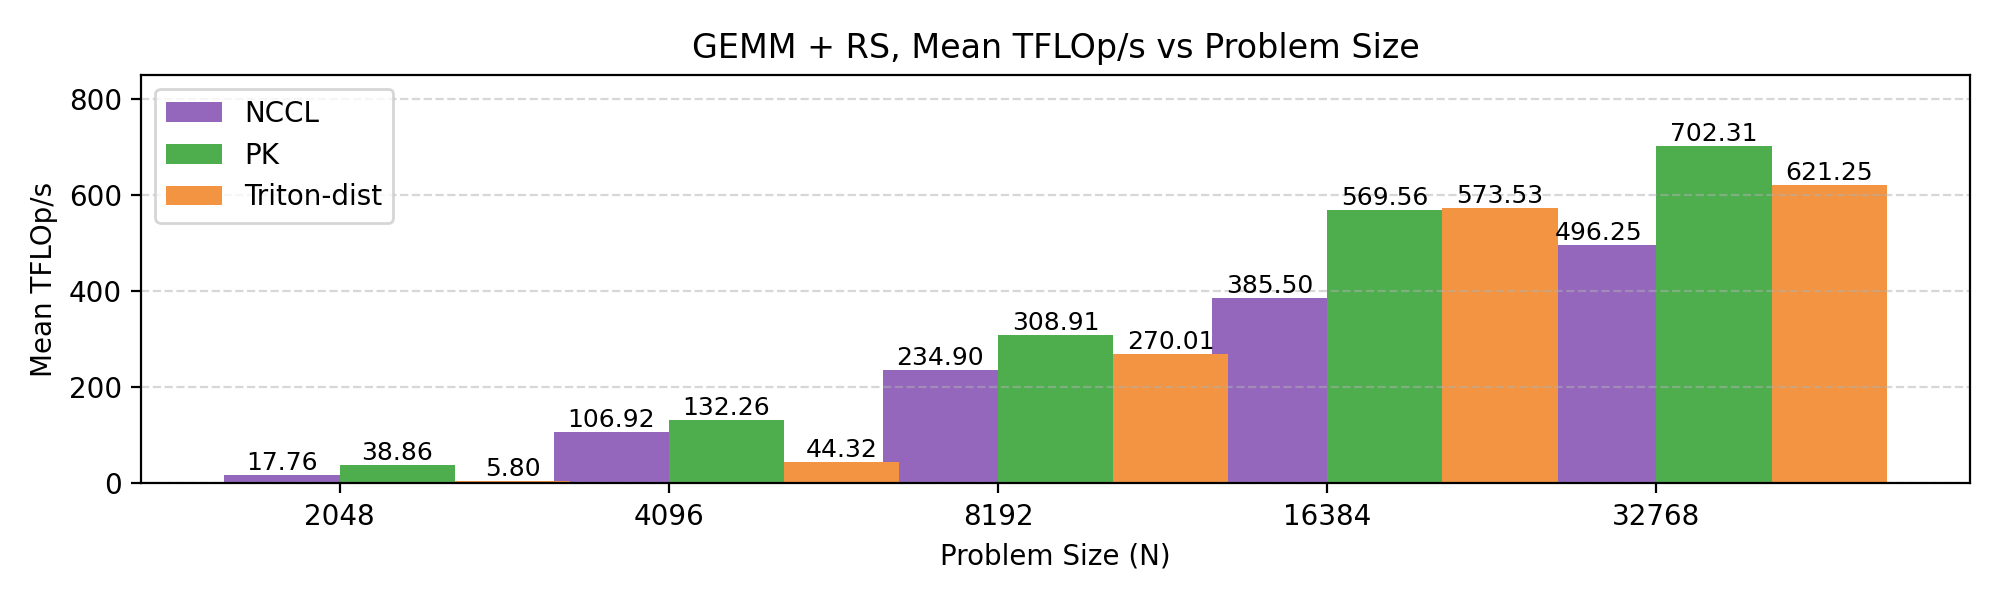
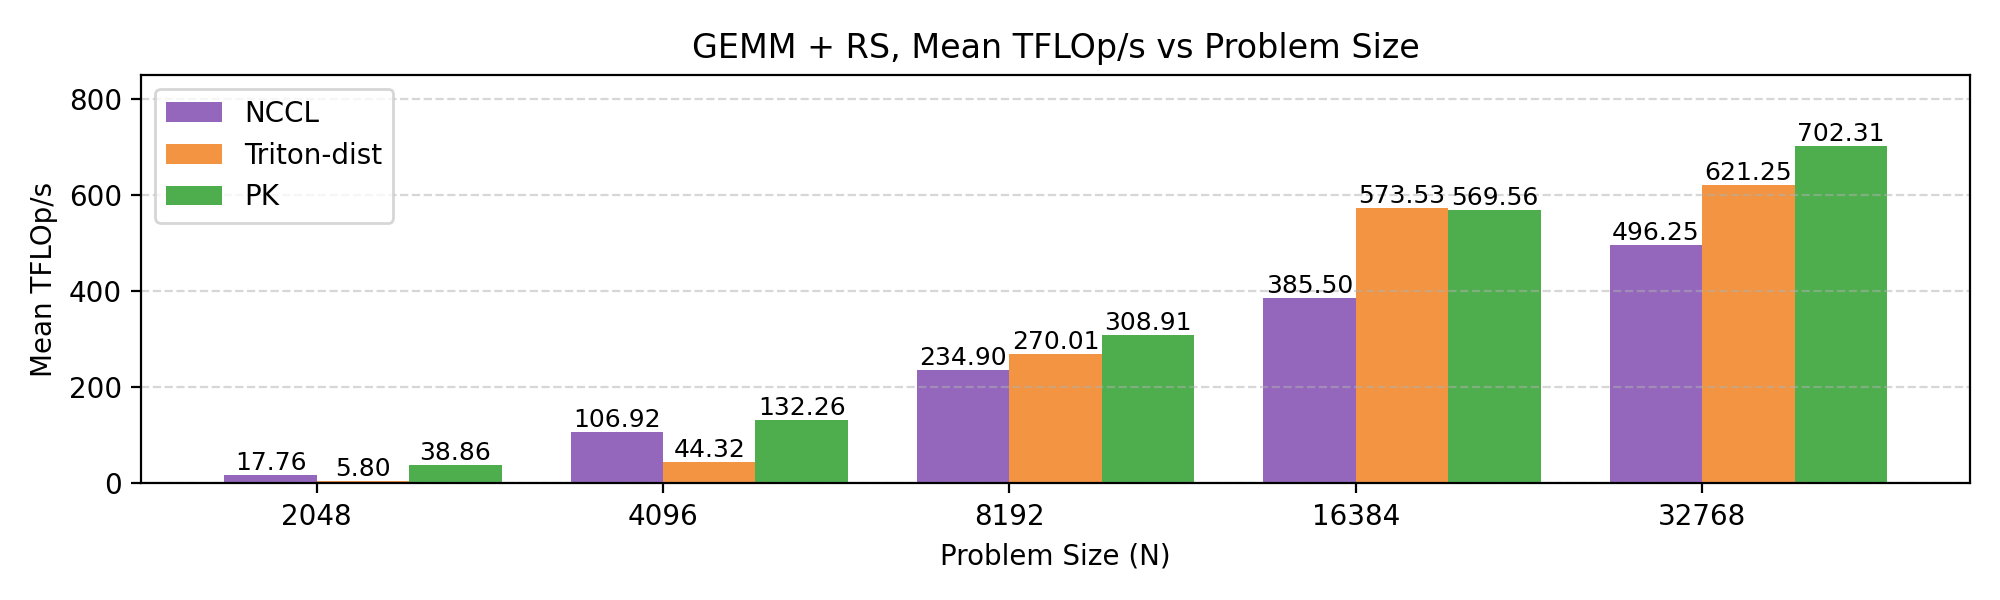
update

diff --git a/kernels/parallel/matmul_rs/out_parse/plot_bar.py b/kernels/parallel/matmul_rs/out_parse/plot_bar.py
@@ -29,15 +29,15 @@ def main():
     ylabel = "Mean TFLOp/s" if args.metric == "tflops" else "Mean Latency (ms)"
     
 
-    impls = ["NCCL", "PK", "Triton-dist"]
-    
+    impls = ["NCCL", "Triton-dist",  "PK"]
+
     orange = "#F29441"
     purple = "#9467BD"
     green = "#4EAE4E"
     green_blue = "#67BBBD"
     red = "#E67C7C"
 
-    colors = {"NCCL": purple, "PK":green, "Triton-dist":orange}
+    colors = {"NCCL": purple,  "Triton-dist":orange, "PK":green,}
 
 
     if df.empty:
@@ -54,7 +54,7 @@ def main():
     print(sizes, df)
 
     # bar 布局
-    bar_width = 0.35
+    bar_width = 0.8 / len(impls)
     x = range(len(sizes))
 
     plt.figure(figsize=(10, 3))
